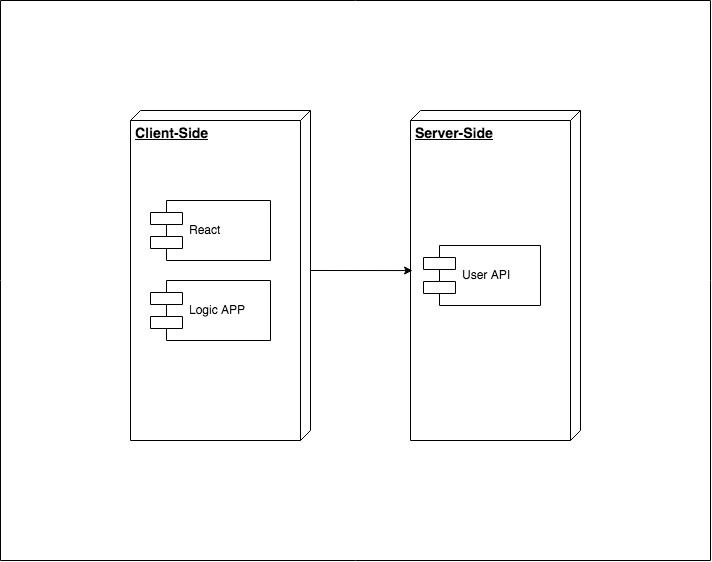
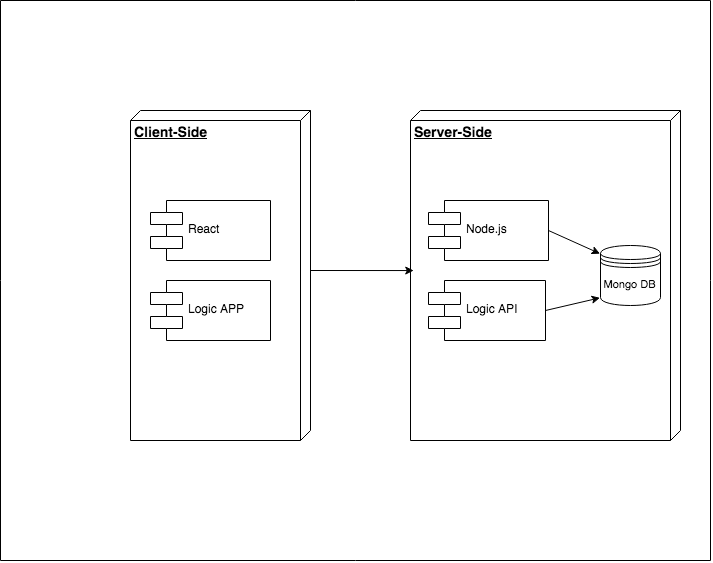
readme.me update

diff --git a/staff/aitor-parra/pyrene-ski/pyrene-ski-doc/README.md b/staff/aitor-parra/pyrene-ski/pyrene-ski-doc/README.md
@@ -1,13 +1,31 @@
-# PYRENE-SKI APP
+# PYRENE-SKI 
 
 ![](images/skiordie.gif)
 
-## Introduction:
+## Introduction and motivation:
 
-The Pyrene Ski App is a web tool tu be used by a school of ski. It allows an administrator account to create teams (teachers) and ski lessons, setting dates, shedules and activities. Lessons are offered to registered clients accounts to be booked online. This app come up to cover a real need from a school and club of ski, Club d’Esquí Pyrene , http://clubesquipyrene.com/ , established in the Catalan Pyrenes. 
+The Pyrene Ski App is a web tool tu be used by a school of ski. It allows an administrator account to create teams (teachers) and ski lessons, setting dates, shedules and activities. Lessons are offered to registered clients accounts to be booked online. This app come up to cover a real need of a school and club of ski, 'Club d’Esquí Pyrene' , http://clubesquipyrene.com/ , established in the Catalan Pyrenes. 
+
+The name 'Pyrene' is related to various female characters of Greek and Iberian mythology.
 
 
 ## Functional Description
+
+Admin can: 
+
+- login and authenticate as administrators
+- create teams
+- list teams
+- create lessons linked with teams
+- retrieve lessons
+- list lessons
+
+Client can:
+
+- register themselves as clients
+- login and authenticate as clients
+- list lessons
+
 
 ### Use Cases
 
@@ -34,9 +52,9 @@ The Pyrene Ski App is a web tool tu be used by a school of ski. It allows an adm
 
 ### Code Coverage
 
-![Code Coverage](images/coverage.png)
+![Code Coverage](images/api_test_coverage.png)
 
-### Mockup Screenshots
+## Mockup Screenshots
 
 ![Screenshots Landing Register ](images/ps_mu_landing_register.png)
 ![Screenshots Login Lesson List](images/ps_mu_login_boardadmin.png)
@@ -44,11 +62,24 @@ The Pyrene Ski App is a web tool tu be used by a school of ski. It allows an adm
 ![Screenshots Lesson List Add Lesson](images/ps_mu_addlesson_lessonlist.png)
 ![Screenshots Board Client Book Lesson](images/ps_mu_boardclient_booklesson.png)
 
-### App Screeenshots
+## App Screeenshots
 
 
+## Technologies
 
-## Future Version Features
+Javascript, ReactJS, Node,js, MongoDB & Mongoose
 
-01.Client feature to select date/time to a corresponding team member on calendar.
-02.Client feature to pay for the selection. 
+
+## TODO
+
+01. Strenghth API test.
+02. Strength APP test.
+03. Team delete feature.
+04. Client feature to book a lesson.
+05. Client feature to pay a booked lesson. 
+06. Calendat implementation.
+
+## Credits
+
+Aitor Parra Bellón
+Github Aitor1979
